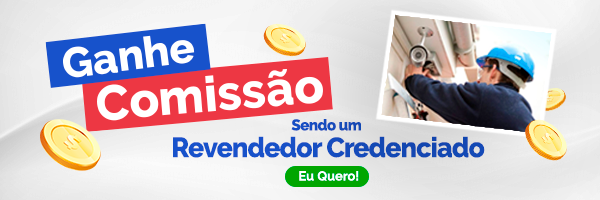
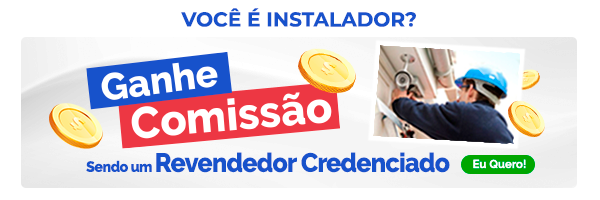
ajuste layout

diff --git a/index-layout-novo-estilo.html b/index-layout-novo-estilo.html
@@ -8,13 +8,9 @@
       <tr>
         <td><a href="https://www.tudoforte.com.br" target="_blank"><img width="420px" height="60px" cellpadding="0"
               cellspacing="0" border="0" alt="Topo" src="img/banner-logo-tudo-forte.png" class="CToWUd"> </a></td>
-        <td><a href="https://www.ebit.com.br/tudo-forte" target="_blank"><img width="60px" height="60px" cellpadding="0"
-              cellspacing="0" border="0" alt="Ebit" src="img/ebit.png" class="CToWUd"> </a></td>
-        <td><a href="https://www.opinioes-verificadas.com.br/opinioes-clientes/tudoforte.com.br" target="_blank"><img
-              width="60px" height="60px" cellpadding="0" cellspacing="0" border="0" alt="Opiniões Verificada"
-              src="img/opiniao.png" class="CToWUd"> </a></td>
+
         <td><a href="https://www.google.com/shopping/ratings/account/metrics?q=tudoforte.com.br&c=BR&v=4&hl=pt_BR"
-            target="_blank"><img width="60px" height="60px" cellpadding="0" cellspacing="0" border="0"
+            target="_blank"><img width="180px" height="60px" cellpadding="0" cellspacing="0" border="0"
               alt="Avaliações Google" src="img/google.png" class="CToWUd"> </a></td>
       </tr>
     </tbody>
@@ -54,44 +50,16 @@
       cellpadding="0" cellspacing="0" align="center">
       <tbody>
         <tr style="display:block">
-          <td><img border="0" width="600" height="187" usemap="#m_5304305021460022736_m_-4135165898405030599_9itens_p"
-              style="border-radius:5px 5px 0 0;display:block" src="img/parceiros.png" class="CToWUd a6T" tabindex="0">
-            <div class="a6S" dir="ltr" style="opacity: 0.01; left: 828.8px; top: 1671.2px;">
-
-            </div><map name="m_5304305021460022736_m_-4135165898405030599_9itens_p"><area alt="Onix" title="Onix"
-                shape="rect" coords="24,52,69,97" style="outline:none"
-                href="https://www.tudoforte.com.br/loja/busca.php?loja=332274&avancada=1&buscamarca=onix%20security"
-                target="_blank">
-              <area alt="Intelbras" title="Intelbras" shape="rect" coords="87,52,132,97" style="outline:none"
-                href="https://www.tudoforte.com.br/loja/busca.php?loja=332274&avancada=1&buscamarca=intelbras"
-                target="_blank">
-              <area alt="ECP" title="ECP" shape="rect" coords="151,52,196,97" style="outline:none"
-                href="https://www.tudoforte.com.br/loja/busca.php?loja=332274&avancada=1&buscamarca=ecp"
-                target="_blank">
-              <area alt="Motorola" title="Motorola" shape="rect" coords="214,52,259,97" style="outline:none"
-                href="https://www.tudoforte.com.br/loja/busca.php?loja=332274&avancada=1&buscamarca=motorola"
-                target="_blank">
-              <area alt="Giga" title="Giga" shape="rect" coords="278,52,323,97" style="outline:none"
-                href="https://www.tudoforte.com.br/loja/busca.php?loja=332274&marca=marca_giga-security&order=hot"
-                target="_blank">
-              <area alt="Tudo Forte" title="Tudo Forte" shape="rect" coords="341,52,386,97" style="outline:none"
-                href="https://www.tudoforte.com.br/loja/busca.php?loja=332274&palavra_busca=Tudo+Forte" target="_blank">
-              <area alt="Western Digital" title="Western Digital" shape="rect" coords="404,52,449,97"
-                style="outline:none"
-                href="https://www.tudoforte.com.br/loja/busca.php?loja=332274&avancada=1&buscamarca=western%20digital"
-                target="_blank">
-              <area alt="Hikvision" title="Hikvision" shape="rect" coords="468,52,513,97" style="outline:none"
-                href="https://www.tudoforte.com.br/loja/busca.php?loja=332274&marca=marca_hikvision&order=hot"
-                target="_blank">
-              <area alt="JFL Alarmes" title="JFL Alarmes" shape="rect" coords="531,52,576,97" style="outline:none"
-                href="https://www.tudoforte.com.br/jfl?order=hot" target="_blank">
-              <area alt="Veja mais marcas" title="Veja mais marcas" shape="rect" coords="196,115,404,156"
-                style="outline:none" href="https:www.tudoforte.com.br" target="_blank">
-            </map>
+          <td><a href="https://revendedor.tudoforte.com.br/" target="_blank" class="CToWUd"><img
+                style="display:block;border-radius:5px;width:600px;height:200px;border-width:0px;border-style:solid; margin-bottom:20px; border: 1px solid white;"
+                src="img/banner-revendedor.png" alt="">
+            </a>
           </td>
         </tr>
       </tbody>
     </table>
+
+
 
     <table id="m_5304305021460022736m_-4135165898405030599navegueporesporte" width="600" height="0" border="0"
       cellpadding="0" cellspacing="0" align="center">
@@ -130,20 +98,7 @@
 
   </table>
 
-  <table id="m_5304305021460022736m_-4135165898405030599banner" width="600" height="0" border="0" cellpadding="0"
-    cellspacing="0" align="center" style="width:600px;margin-top:0px">
-    <tbody>
-      <tr></tr>
-      <tr>
-        <td>
-          <a href="https://revendedor.tudoforte.com.br/" target="_blank" class="CToWUd"><img
-              style="display:block;border-radius:5px;width:600px;height:200px;border-width:0px;border-style:solid;margin-top:20px;border: 1px solid white;"
-              src="img/banner-revendedor.png" alt="">
-          </a>
-        </td>
-      </tr>
-    </tbody>
-  </table>
+
 
   <table width="600" height="0" border="0" cellpadding="0" cellspacing="0" align="center"
     style="width:550px;margin-top:30px;">
